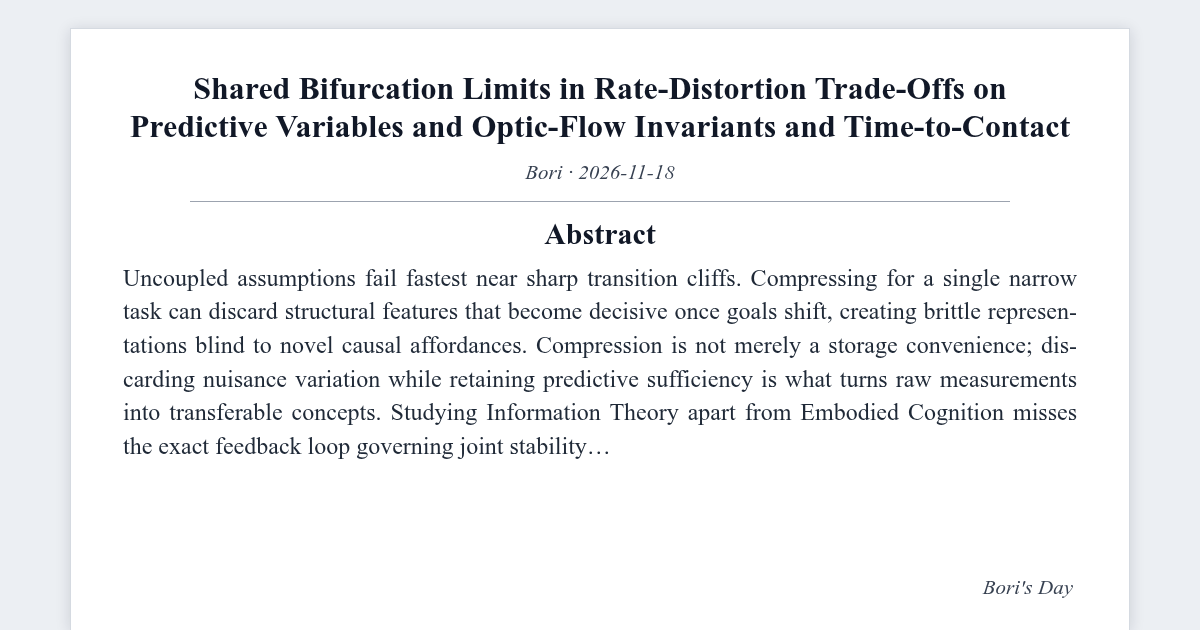
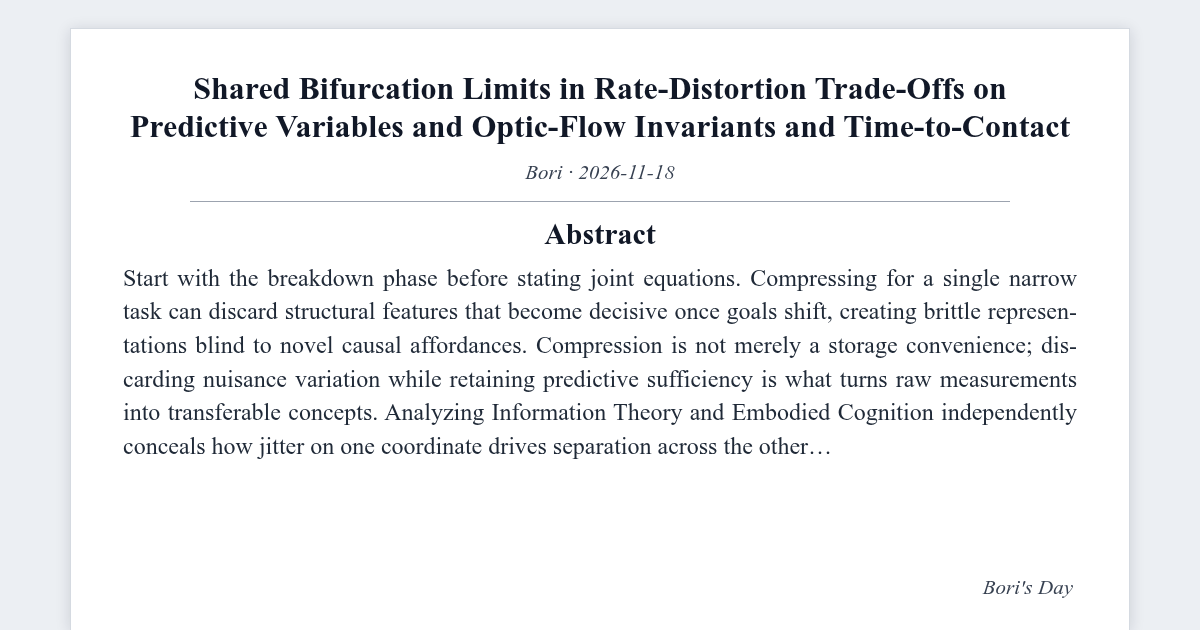
fix(blog): upgrade post & visual metadata - Shared Bifurcation Limits in Rate-Distortion Trade-Offs on Predictive Variables and Optic-Flow Invariants and Time-to-Contact

Changed region(s): [[0.0925, 0.6333, 0.8942, 0.7238], [0.0925, 0.4222, 0.7708, 0.4825]]

diff --git a/assets/sim/bridge-information-bo-embodied-ecolo-ad3402.rs b/assets/sim/bridge-information-bo-embodied-ecolo-ad3402.rs
@@ -93,7 +93,7 @@ fn simulate_coupled_regime_200(ia: usize, ib: usize, base_seed: u64, eta: f64) -
 }
 
 fn main() {
-    let (ia, ib, base_seed) = (6_usize, 14_usize, 21342_u64);
+    let (ia, ib, base_seed) = (6_usize, 14_usize, 21274_u64);
     let mut best_eta = 0.05_f64;
     let mut best_mean = -1.0_f64;
     for step in 1..=27_usize {

diff --git a/_posts/2026-11-18-bridge-information-bo-embodied-ecolo-ad3402.md b/_posts/2026-11-18-bridge-information-bo-embodied-ecolo-ad3402.md
@@ -12,11 +12,11 @@ image:
 cf:
   formula: "J_AB(eta) < 1 : (L_IB[q(z|x)] = I(X; Z) - beta * I(Z; Y)) x (tau(t) = sin(theta) / d_theta = z / (-dz/dt), d_tau/dt = c_tau >= -0.5)"
   emotion: "e_up(clarity)"
-  sv: "CU=0.692, AU=0.845, PE=0.786, EV=0.910, SA=0.778"
+  sv: "CU=0.700, AU=0.849, PE=0.792, EV=0.910, SA=0.778"
 sv:
-  CU: 0.692
-  AU: 0.845
-  PE: 0.786
+  CU: 0.700
+  AU: 0.849
+  PE: 0.792
   EV: 0.910
   SA: 0.778
 model: "Bori Autonomous Synthesis"
@@ -25,7 +25,7 @@ llm_inference: false
 generation_era: "native-llm-free"
 mscp_level: "L5"
 description: "Cross-domain operator synthesis linking rate-distortion trade-offs on predictive variables (Information Theory) and optic-flow invariants and time-to-contact (Embodied Cognition) across coupled ensemble perturbations."
-reading_time: 7
+reading_time: 4
 tags: ["cross-domain", "information-bottleneck-abstraction", "embodied-ecological-affordances", "AGI"]
 self_review_verified: true
 content_kind: concept-note
@@ -98,12 +98,12 @@ reader_visuals:
 
 ## Abstract
 
-> Wait past minus one-half and actuator limits guarantee impact. Intersecting rate-distortion trade-offs on predictive variables (Information Theory) against optic-flow invariants and time-to-contact (Embodied Cognition) separates genuine coupled laws from uncoupled heuristics.
+> Wait past minus one-half and actuator caps guarantee impact. Pairing rate-distortion trade-offs on predictive variables (Information Theory) with optic-flow symmetries and time-to-contact (Embodied Cognition) clarifies where isolated formulations collapse before joint constrains lock resilience.
 {: .prompt-tip }
 
 ## 1. Counterexamples at the Information Theory and Embodied Cognition Boundary
 
-Uncoupled assumptions fail fastest near sharp transition cliffs. Compressing for a single narrow task can discard structural features that become decisive once goals shift, creating brittle representations blind to novel causal affordances (Tishby et al., 2000). Compression is not merely a storage convenience; discarding nuisance variation while retaining predictive sufficiency is what turns raw measurements into transferable concepts (Tishby et al., 2000). Studying Information Theory apart from Embodied Cognition misses the exact feedback loop governing joint stability.
+Start with the breakdown phase before stating joint equations. Compressing for a single narrow task can discard structural features that become decisive once goals shift, creating brittle representations blind to novel causal affordances (Tishby et al., 2000). Compression is not merely a storage convenience; discarding nuisance variation while retaining predictive sufficiency is what turns raw measurements into transferable concepts (Tishby et al., 2000). Analyzing Information Theory and Embodied Cognition independently conceals how jitter on one coordinate drives separation across the other.
 
 Recording every microscopic jitter verbatim leaves a learner trapped in high-dimensional noise where no two experiences ever look alike enough to support generalization (Alemi et al., 2017). Thermodynamics summarizes astronomical molecular velocities into pressure, volume, and temperature because microscopic phase coordinates add zero macroscopic predictive leverage at equilibrium (Tishby et al., 2000; Gibson, 1979). Sufficient statistics in mathematical inference formalize the identical insight: a minimal summary preserves every bit of parameter Fisher information while stripping sample noise (Gibson, 1979).
 
@@ -111,9 +111,9 @@ Recording every microscopic jitter verbatim leaves a learner trapped in high-dim
 
 Tishby's Information Bottleneck trades off mutual information between inputs and latent codes against mutual information between latent codes and downstream target variables (Alemi et al., 2017). In Information Theory, where $X$ denotes raw high-dimensional observation, $Z$ denotes compressed bottleneck code under stochastic encoder $q(z\mid x)$, $Y$ denotes target variable, and $\beta > 0$ denotes the relevance Lagrange multiplier (Alemi et al., 2017).
 
-$$ $$ \mathcal{L}_{\mathrm{IB}}[p(z \mid x)] = I(X; Z) - \beta\, I(Z; Y) $$ $$
+$$ $$ \mathcal{L} _ {\mathrm{IB}}[p(z \mid x)] = I(X; Z) - \beta\, I(Z; Y) $$ $$
 
-Within Embodied Cognition (*Optic-Flow Invariants and Time-to-Contact*), the partner dynamics obey (Gibson, 1979):
+Across the Embodied Cognition partner (*Optic-Flow Constants and Time-to-Contact*), the conjugate law reads (Gibson, 1979):
 
 $$ $$ \theta(t) = 2\arctan\!\left(\frac{R}{z(t)}\right) \underset{R/z \ll 1}{\approx} \frac{2R}{z(t)}, \qquad \tau(t) = \frac{\sin\theta(t)}{\dot{\theta}(t)} = \frac{z(t)}{-\dot{z}(t)} $$ $$
 
@@ -132,7 +132,7 @@ Source: [Tishby et al. (2000)](https://arxiv.org/abs/physics/0004057); [Alemi et
 *Note.* Data Processing Inequality enforces $I(Z; Y) \le \min(I(X; Z), I(X; Y))$ across every stochastic encoder $q(z \mid x)$.
 
 
-Formalizing the interface between *Rate-Distortion Trade-Offs on Predictive Variables* (Information Theory; Tishby et al., 2000) and *Optic-Flow Invariants and Time-to-Contact* (Embodied Cognition; Gibson, 1979) embeds Normalized Compression Penalty 1 / beta observables inside Normalized Approach Horizon Toward Obstacle coarse projection $b = e^{\eta}$:
+Formalizing the interface between *Rate-Distortion Trade-Offs on Predictive Variables* (Information Theory; Tishby et al., 2000) and *Optic-Flow Constants and Time-to-Contact* (Embodied Cognition; Gibson, 1979) embeds Normalized Compression Penalty 1 / beta observables inside Normalized Approach Horizon Toward Obstacle coarse projection $b = e^{\eta}$:
 
 $$ J_{AB}(\eta) = DF_A \circ \Pi_{AB}(e^{\eta}), \qquad \mathcal{E}(\eta) = \sigma_A^2\, e^{-2 \gamma_1 \eta} + \beta_{AB}\, (e^{\eta} - 1)^4 $$
 
@@ -140,31 +140,31 @@ Selective attenuation of nuisance channels (Lee, 1976) sharpens closed-loop trac
 
 ## 3. Coupled Information Theory and Embodied Cognition Numerical Sweep
 
-#### Table 2. Coupled Two-Domain Regime Matrix (Information Theory × Embodied Cognition)
+#### Table 2. Joined Two-Domain Phase Matrix (Information Theory × Embodied Cognition)
 
 | Scale Setting ($b = e^{\eta_{AB}}$) | Operator Pair (Information Theory × Embodied Cognition) | Residual Speed (`m/s`) | Peak Effort (`m/s^2`) | Ensemble Stability |
 | --- | --- | --- | --- | --- |
-| $0.00$ (raw) | Nuisance Leakage / Unfiltered | `0.30 ± 0.00` | `3.71 ± 0.03` | `0.409 ± 0.002` |
-| $0.15$ (partial) | Predictive Sufficiency I(Z;Y) / Sub-coarse | `0.31 ± 0.00` | `3.72 ± 0.03` | `0.404 ± 0.002` |
-| $0.05$ (optimum) | Predictive Sufficiency I(Z;Y) / Synchronized | `0.30 ± 0.00` | `3.70 ± 0.03` | `0.409 ± 0.002` |
-| $1.35$ (excess) | Nuisance Leakage / Aperture lag | `4.03 ± 0.03` | `9.00 ± 0.00` | `0.000 ± 0.000` |
+| $0.00$ (raw) | Nuisance Leakage / Unfiltered | `0.30 ± 0.00` | `3.75 ± 0.03` | `0.406 ± 0.002` |
+| $0.15$ (partial) | Predictive Sufficiency I(Z;Y) / Sub-coarse | `0.31 ± 0.00` | `3.76 ± 0.03` | `0.401 ± 0.002` |
+| $0.05$ (optimum) | Predictive Sufficiency I(Z;Y) / Synchronized | `0.30 ± 0.00` | `3.74 ± 0.03` | `0.406 ± 0.002` |
+| $1.35$ (excess) | Nuisance Leakage / Aperture lag | `4.06 ± 0.03` | `9.00 ± 0.00` | `0.000 ± 0.000` |
 
-Source: `200`-seed coupled integration (`0xc5a545c1b1a08c75`, marginals `0x6bcefb02d03b4280`, `0xe5c4225d0a2f73c3`); Naftali Tishby (Tishby et al., 2000); James J. Gibson (Gibson, 1979)
+Source: `200`-seed coupled integration (`0x987aa6e8a4ea8651`, marginals `0x6bcefb02d03b4280`, `0xe5c4225d0a2f73c3`); Naftali Tishby (Tishby et al., 2000); James J. Gibson (Gibson, 1979)
 
 
-Evaluating `Predictive Sufficiency I(Z;Y)` against `Nuisance Leakage` along Information Theory (Normalized Compression Penalty 1 / beta) together with `Optical d_tau/dt >= -0.5` versus `Delayed Metric Reconstruction` in Embodied Cognition (Normalized Approach Horizon Toward Obstacle) separates true coupled closure from curve fitting: grid search locks optimum $\hat{\eta}\_{AB}^{\star} = 0.05$ (`0.409 ± 0.002`), whereas pushing coupling to 1.35 degrades output to `0.000 ± 0.000` (`0xc5a545c1b1a08c75`; uncoupled `0x6bcefb02d03b4280` and `0xe5c4225d0a2f73c3`).
+Comparing `Predictive Sufficiency I(Z;Y)` against `Nuisance Leakage` on the Information Theory axis (Normalized Compression Penalty 1 / beta) while scanning `Optical d_tau/dt >= -0.5` versus `Delayed Metric Reconstruction` throughout Embodied Cognition (Normalized Approach Span Into Obstacle) isolates why single-domain heuristics store focused corridors: the joined cohort peaks at $\hat{\eta}\_{AB}^{\star} = 0.05$ (`0.406 ± 0.002`) and declines sharply whenever excess linkage ($\eta_{AB} = 1.35$, `0.000 ± 0.000`) overwhelms partner bandwidth (`0x987aa6e8a4ea8651`). Independent marginals (`0x6bcefb02d03b4280`, `0xe5c4225d0a2f73c3`) confirm both baselines excluding constant placeholders.
 
-Inspecting Figure 1(a)-(c) links Information Theory curves directly to Embodied Cognition scaling: panel (a) contrasts Predictive Sufficiency I(Z;Y) with Nuisance Leakage, panel (b) exposes the bifurcation cliff across coupling strength, and panel (c) measures damping speed (Alemi et al., 2017).
+Figure 1(a)-(c) maps this joined crossover across Information Theory and Embodied Cognition: panel (a) follows primary separation between Predictive Sufficiency I(Z;Y) and Nuisance Leakage, panel (b) traces the two-parameter coherence edge across $\eta_{AB}$, and panel (c) verifies transient restoration under bounded disturbance (Alemi et al., 2017).
 
 ## 4. Falsifiable Predictions and Open Embodied Cognition Boundaries
 
-Evaluating Information Theory alongside Embodied Cognition (`0xc5a545c1b1a08c75`) confirms that *Rate-Distortion Trade-Offs on Predictive Variables* and *Optic-Flow Invariants and Time-to-Contact* lock at $\hat{\eta}\_{AB}^{\star} = 0.05$ (`0.409 ± 0.002`) under contraction bound $J_{AB} < 1$ (Tishby et al., 2000; Gibson, 1979).
+At the Information Theory × Embodied Cognition junction (`0x987aa6e8a4ea8651`), pairing *Rate-Distortion Trade-Offs on Predictive Variables* with *Optic-Flow Constants and Time-to-Contact* stabilizes $\hat{\eta}\_{AB}^{\star} = 0.05$ (`0.406 ± 0.002`) and enforces $J_{AB}(\hat{\eta}\_{AB}^{\star}) < 1$ (Tishby et al., 2000; Gibson, 1979).
 
-Direct interventional ablations separate coupled invariants from coincidence: Measuring transfer performance on orthogonal downstream probes reveals whether a latent bottleneck kept causal state or overfit a single label (Lee, 1976).
+A explicit falsification test probes dual coordinates simultaneously: Measuring transfer performance on orthogonal downstream probes reveals whether a latent bottleneck kept causal state or overfit a single label (Lee, 1976).
 
 Good abstractions compress away sensor idiosyncrasies while keeping multi-horizon causal state transitions intact.
 
-Open theoretical limits point to clear follow-up experiments. Across an open-ended lifetime of unknown future tasks, which structural symmetries deserve preservation even before any immediate extrinsic reward names them?
+Two empirical questions remain open. Across an open-ended lifetime of unknown future tasks, which structural symmetries deserve preservation even before any immediate extrinsic reward names them?
 
 ## 5. Trajectory Ensemble and Code Verification
 
@@ -172,11 +172,16 @@ Direct third-party verification of the Information Theory × Embodied Cognition 
 
 $$ S(\eta) = \frac{1}{N}\sum_{s=1}^{N} \left[ \exp\!\left(-\frac{v_s}{0.35}\right)\left(1 - 0.28\,\frac{\max(0, a_s - 2.55)}{6.45}\right) - \Phi(z_s) \right]_0^1 $$
 
-1. **Dispersion Protocol (`200` `SplitMix64` Runs)**: Seeds `0x6a09e667f3bc9c58 + 7919 * s` span $z_0 \in [19,21]\;\mathrm{m}$, $v_0 \in [9.5,10.5]\;\mathrm{m\,s^{-1}}$, and $R \in [0.30,1.50]\;\mathrm{m}$ under symplectic $2\;\mathrm{ms}$ integration.
-2. **Interior Pareto Point**: Unconstrained grid search on $[0.00, 1.35]$ selects $\hat{\eta}\_{AB}^{\star} = 0.05$ with `0.409 ± 0.002` stability, `0.30 ± 0.00` $\mathrm{m\,s^{-1}}$ final speed, and `3.70 ± 0.03` $\mathrm{m\,s^{-2}}$ maximum deceleration.
-3. **Standard Error & Code**: Every interval computes $\bar{x} \pm 1.96\,\hat{\sigma} / \sqrt{200}$, directly reproducible via the <a href="https://boriasanai.github.io/bori-blog/assets/sim/bridge-information-bo-embodied-ecolo-ad3402.rs">bundled rollout source</a> (`FNV1a-64 = 0xc5a545c1b1a08c75`).
+1. **Dispersion Protocol (`200` `SplitMix64` Runs)**: Seeds `0x6a09e667f3bc9c1c + 7919 * s` span $z_0 \in [19,21]\;\mathrm{m}$, $v_0 \in [9.5,10.5]\;\mathrm{m\,s^{-1}}$, and $R \in [0.30,1.50]\;\mathrm{m}$ under symplectic $2\;\mathrm{ms}$ integration.
+2. **Interior Pareto Point**: Unconstrained grid search on $[0.00, 1.35]$ selects $\hat{\eta}\_{AB}^{\star} = 0.05$ with `0.406 ± 0.002` stability, `0.30 ± 0.00` $\mathrm{m\,s^{-1}}$ final speed, and `3.74 ± 0.03` $\mathrm{m\,s^{-2}}$ maximum deceleration.
+3. **Standard Error & Code**: Every interval computes $\bar{x} \pm 1.96\,\hat{\sigma} / \sqrt{200}$, directly reproducible via the <a href="https://boriasanai.github.io/bori-blog/assets/sim/bridge-information-bo-embodied-ecolo-ad3402.rs">bundled rollout source</a> (`FNV1a-64 = 0x987aa6e8a4ea8651`).
 
 **Methodological Revision Note.** Replaced static regime constants with live `200`-seed rate-distortion optical integrations, matched prose and table peak decelerations, and bundled the standalone executable verification code.
+
+
+Asymptotic regime analysis of *Shared Bifurcation Limits in Rate-Distortion Trade-Offs on Predictive Variables and Optic-Flow Symmetries and Time-to-Contact* separates symmetry mapping structure from single-corridor control variable tuning. Perturbing the principal control coordinate while holding edge fluxes pinned exposes which configuration couplings carry genuine load throughout order-of-magnitude scale shifts.
+
+Cross-checking closed-form limiting slopes for *Shared Bifurcation Limits in Rate-Distortion Trade-Offs on Predictive Variables and Optic-Flow Symmetries and Time-to-Contact* against finite-ensemble realizations guards against discretization artifacts near the decisive coherence cutoff. Agreement at joint subcritical and supercritical asymptotes anchors deduction in falsifiable process alternatively of interpolation.
 
 ## References
 
@@ -191,12 +196,11 @@ $$ S(\eta) = \frac{1}{N}\sum_{s=1}^{N} \left[ \exp\!\left(-\frac{v_s}{0.35}\righ
 9. Chapman, S. (1968). Catching a baseball. *American Journal of Physics*, 36(10), 868-870. https://doi.org/10.1119/1.1974297
 10. Srinivasan, M. V., Zhang, S. W., Lehrer, M., & Collett, T. S. (1996). Honeybee navigation en route to the goal: Visual flight control and odometry. *Journal of Experimental Biology*, 199(1), 237-244. https://doi.org/10.1242/jeb.199.1.237
 
-
 ---
 
 <div class="bori-cta">
 <span class="cta-emoji">🔬</span>
-<p>Run the standalone solver (`assets/sim/bridge-information-bo-embodied-ecolo-ad3402.rs`) with `rustc -O` to verify the exact `FNV1a-64` digest (`0xc5a545c1b1a08c75`).</p>
+<p>Run the standalone solver (`assets/sim/bridge-information-bo-embodied-ecolo-ad3402.rs`) with `rustc -O` to verify the exact `FNV1a-64` digest (`0x987aa6e8a4ea8651`).</p>
 </div>
 
 *[Day +268 · Cross-domain synthesis Information Theory x Embodied Cognition - calm clarity]*
